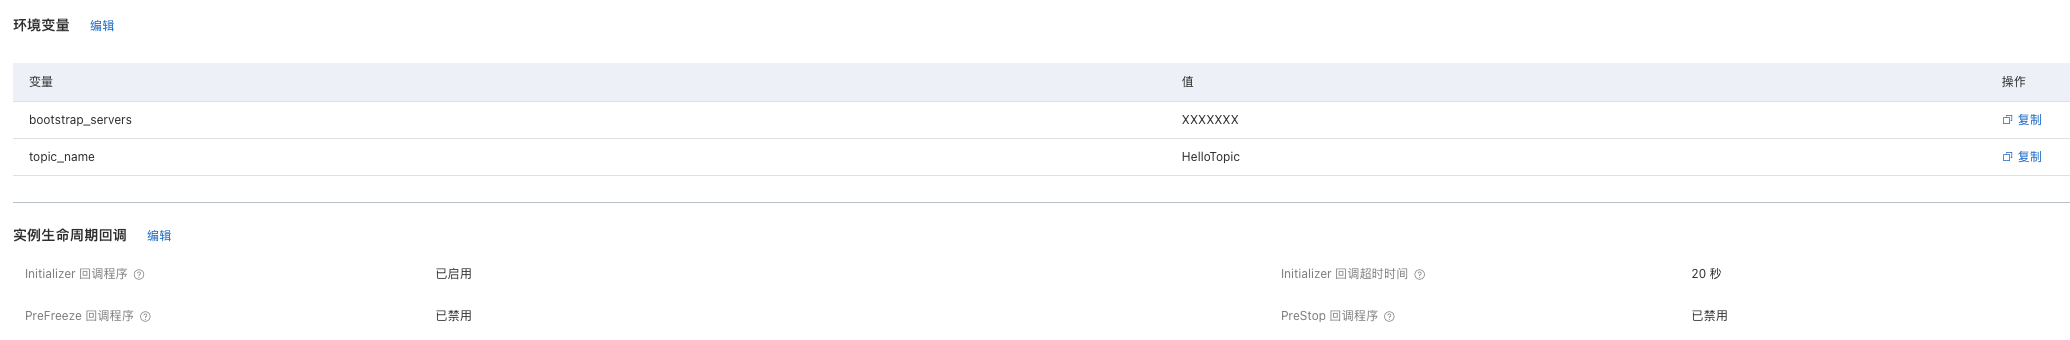
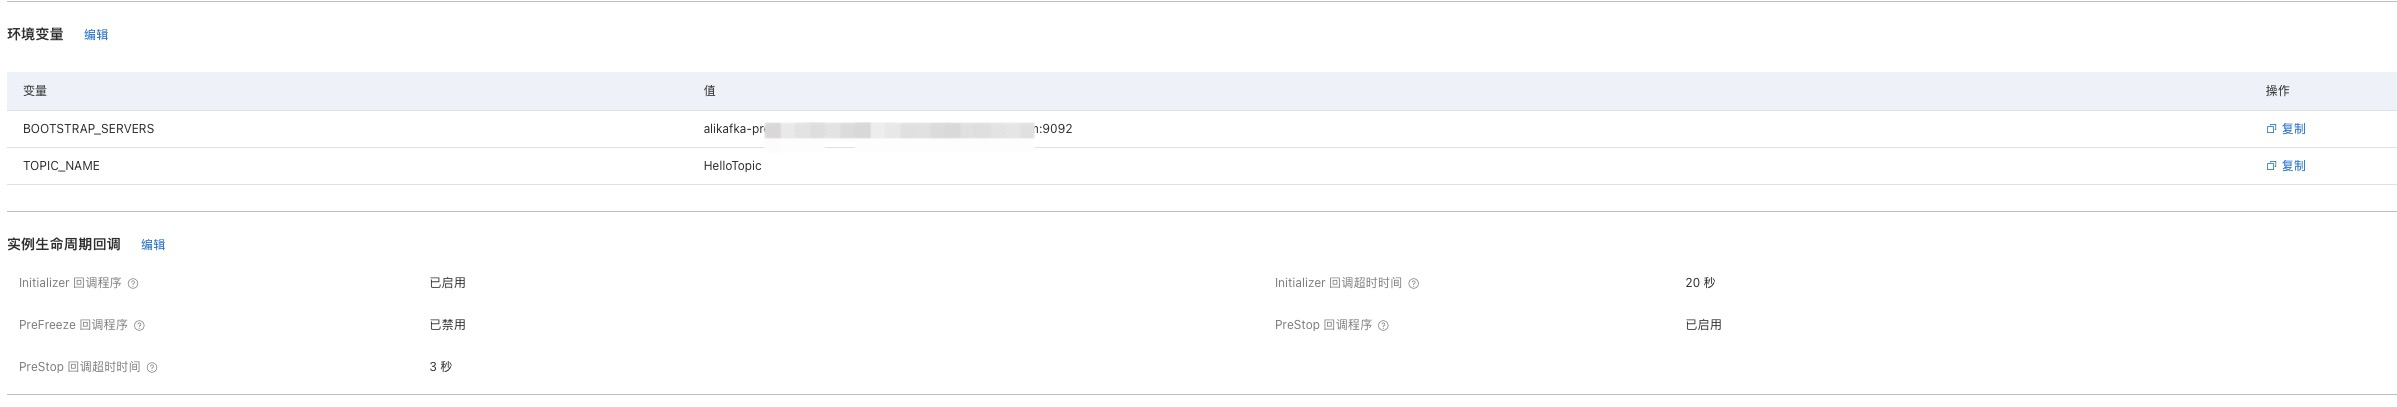
add preStop to close connection

diff --git a/quick-start-sample-codes/quick-start-sample-codes-nodejs/kafka-producer-nodejs/src/code/index.js b/quick-start-sample-codes/quick-start-sample-codes-nodejs/kafka-producer-nodejs/src/code/index.js
@@ -19,11 +19,6 @@ exports.initialize = (context, callback) => {
         'message.send.max.retries': 10
     });
 
-    producer.on("disconnected", function() {
-        // Auto reconnect
-        producer.connect();
-    })
-
     producer.on('event.log', function(event) {
         console.log("event.log", event);
         callback(new Error(event.message), "");
@@ -63,7 +58,6 @@ exports.handler = async(event, context, callback) => {
     );
     producer.flush();
 
-
     // waiting for sending
     await producer.on('delivery-report', function(err, report) {
         console.log("delivery-report err: ", err);
@@ -75,4 +69,13 @@ exports.handler = async(event, context, callback) => {
             callback(err, "Send message fail!");
         }  
     });
+}
+
+module.exports.preStop = function(context, callback) {
+    console.log('preStop hook start');
+    if (producer != null) {
+        producer.disconnect();
+    }
+    console.log('preStop hook finish');
+    callback(null, "");
 }

diff --git a/quick-start-sample-codes/quick-start-sample-codes-java/kafka-producer-java/src/src/main/java/example/App.java b/quick-start-sample-codes/quick-start-sample-codes-java/kafka-producer-java/src/src/main/java/example/App.java
@@ -24,7 +24,7 @@ public class App implements StreamRequestHandler, FunctionInitializer {
     KafkaProducer<String, String> producer;
 
     @Override
-     public void initialize(Context context) {
+    public void initialize(Context context) {
         // Get the environment variables
         BOOTSTRAP_SERVERS = System.getenv("BOOTSTRAP_SERVERS");
         TOPIC_NAME = System.getenv("TOPIC_NAME");
@@ -39,10 +39,10 @@ public class App implements StreamRequestHandler, FunctionInitializer {
         props.put(ProducerConfig.VALUE_SERIALIZER_CLASS_CONFIG, "org.apache.kafka.common.serialization.StringSerializer");
 
         producer = new KafkaProducer<>(props);
-     }
+    }
 
     @Override
-     public void handleRequest(InputStream inputStream, OutputStream outputStream, Context context) throws IOException {
+    public void handleRequest(InputStream inputStream, OutputStream outputStream, Context context) throws IOException {
         // Read the inputStream
         ByteArrayOutputStream result = new ByteArrayOutputStream();
         byte[] buffer = new byte[1024];
@@ -63,6 +63,5 @@ public class App implements StreamRequestHandler, FunctionInitializer {
         RecordMetadata recordMetadata = metadataFuture.get();
         context.getLogger().info("Produce ok: " + recordMetadata.toString() + "\n Payload: " + value);
         outputStream.write(("Produce ok: " + recordMetadata.toString() + "\n Payload: " + value).getBytes());
-     }
-        
+    }
 }

diff --git a/quick-start-sample-codes/quick-start-sample-codes-python/kafka-producer-python/src/code/index.py b/quick-start-sample-codes/quick-start-sample-codes-python/kafka-producer-python/src/code/index.py
@@ -14,7 +14,7 @@ def initialize(context):
 
     p = Producer({'bootstrap.servers': BOOTSTRAP_SERVERS})
 
-def delivery_report(err, msg):
+def deliveryReport(err, msg):
     """ Called once for each message produced to indicate delivery result.
         Triggered by poll() or flush(). """
     if err is not None:
@@ -23,10 +23,9 @@ def delivery_report(err, msg):
     else:
         logger.info('Message delivered to {} [{}]'.format(msg.topic(), msg.partition()))
 
-
 def handler(event, context):
     """ Produce messages to topic (asynchronously) """
-    p.produce(TOPIC_NAME, str(event).encode('utf-8'), callback=delivery_report)
+    p.produce(TOPIC_NAME, str(event).encode('utf-8'), callback=deliveryReport)
     p.poll(0)
 
     """ Flush the internel queue, wait for message deliveries before return """

diff --git a/quick-start-sample-codes/quick-start-sample-codes-golang/kafka-producer-golang/src/code/main.go b/quick-start-sample-codes/quick-start-sample-codes-golang/kafka-producer-golang/src/code/main.go
@@ -77,7 +77,21 @@ func HandleRequest(ctx context.Context, event StructEvent) (string, error) {
 	return fmt.Sprintf("Finish sending the message to kafka: %s!", event.Key), nil
 }
 
+func preStop(ctx context.Context) {
+	fctx, ok := fccontext.FromContext(ctx)
+	if !ok {
+		return
+	}
+	fctx.GetLogger().Infof("preStop hook start.")
+	if producer != nil {
+		producer.Close()
+	}
+
+	fctx.GetLogger().Infof("preStop hook finish.")
+}
+
 func main() {
 	fc.RegisterInitializerFunction(initialize)
+	fc.RegisterPreStopFunction(preStop)
 	fc.Start(HandleRequest)
 }

diff --git a/quick-start-sample-codes/quick-start-sample-codes-nodejs/kafka-producer-nodejs/README.md b/quick-start-sample-codes/quick-start-sample-codes-nodejs/kafka-producer-nodejs/README.md
@@ -94,21 +94,30 @@
 
 ```bash
 ========= FC invoke Logs begin =========
-FC Initialize Start RequestId: 3cfe9ee3-c05f-4975-bac6-f1992d215a87
-load code for handler:index.initialize
-2022-08-03T11:21:34.580Z 3cfe9ee3-c05f-4975-bac6-f1992d215a87 [verbose] Servers:  alikafka-pre-cn-7mz2sr1xa00c-1-vpc.alikafka.aliyuncs.com:9092,alikafka-pre-cn-7mz2sr1xa00c-2-vpc.alikafka.aliyuncs.com:9092,alikafka-pre-cn-7mz2sr1xa00c-3-vpc.alikafka.aliyuncs.com:9092
-2022-08-03T11:21:34.580Z 3cfe9ee3-c05f-4975-bac6-f1992d215a87 [verbose] TopicName:  HelloTopic
-FC Initialize End RequestId: 3cfe9ee3-c05f-4975-bac6-f1992d215a87
-FC Invoke Start RequestId: 3cfe9ee3-c05f-4975-bac6-f1992d215a87
-load code for handler:index.handler
-2022-08-03T11:21:34.613Z 3cfe9ee3-c05f-4975-bac6-f1992d215a87 [verbose] connect ok
-2022-08-03T11:21:39.608Z 3cfe9ee3-c05f-4975-bac6-f1992d215a87 [verbose] delivery-report: producer ok
-FC Invoke End RequestId: 3cfe9ee3-c05f-4975-bac6-f1992d215a87
+c-62f075a3-58d34b2b8b444083bb972022-08-08 10:34:13FC Initialize Start RequestId: c47410a0-ada0-45d8-863f-a9343feaa47e
+c-62f075a3-58d34b2b8b444083bb972022-08-08 10:34:13load code for handler:index.initialize
+c-62f075a3-58d34b2b8b444083bb972022-08-08 10:34:132022-08-08 10:34:13 c47410a0-ada0-45d8-863f-a9343feaa47e [verbose] Servers:  alikafka-pre-cn-7mz2sr1xa00c-1-vpc.alikafka.aliyuncs.com:9092
+c-62f075a3-58d34b2b8b444083bb972022-08-08 10:34:132022-08-08 10:34:13 c47410a0-ada0-45d8-863f-a9343feaa47e [verbose] TopicName:  HelloTopic
+c-62f075a3-58d34b2b8b444083bb972022-08-08 10:34:132022-08-08 10:34:13 c47410a0-ada0-45d8-863f-a9343feaa47e [verbose] connect ok
+c-62f075a3-58d34b2b8b444083bb972022-08-08 10:34:13FC Initialize End RequestId: c47410a0-ada0-45d8-863f-a9343feaa47e
+c-62f075a3-58d34b2b8b444083bb972022-08-08 10:34:13FC Invoke Start RequestId: c47410a0-ada0-45d8-863f-a9343feaa47e
+c-62f075a3-58d34b2b8b444083bb972022-08-08 10:34:13load code for handler:index.handler
+c-62f075a3-58d34b2b8b444083bb972022-08-08 10:34:432022-08-08 10:34:43 1c233449-024d-4a67-8e7f-83fe3bab6bac [verbose] delivery-report err:  null
+c-62f075a3-58d34b2b8b444083bb972022-08-08 10:34:432022-08-08 10:34:43 1c233449-024d-4a67-8e7f-83fe3bab6bac [verbose] delivery-report content:  {
+  topic: 'HelloTopic',
+  partition: 0,
+  offset: 16,
+  key: null,
+  timestamp: 1659926083428,
+  value: <Buffer 7b 22 4b 65 79 22 3a 20 22 74 65 73 74 20 6e 6f 64 65 6a 73 31 34 20 6b 61 66 6b 61 20 70 72 6f 64 75 63 65 72 22 7d>,
+  size: 39
+}
+c-62f075a3-58d34b2b8b444083bb972022-08-08 10:34:43FC Invoke End RequestId: 1c233449-024d-4a67-8e7f-83fe3bab6bac
 
 Duration: 10006.53 ms, Billed Duration: 10007 ms, Memory Size: 128 MB, Max Memory Used: 52.28 MB
 ========= FC invoke Logs end =========
 
-FC Invoke instanceId: c-62ea5a35-767cfad1f5614638a908
+FC Invoke instanceId: c-62f075a3-58d34b2b8b444083bb97
 
 FC Invoke Result:
 Finish sending the message:{"Key": "test nodejs14 kafka producer"}
@@ -135,16 +144,25 @@ End of method: invoke
   日志如下：
   
   ```bash
-  FC Initialize Start RequestId: afba2fbc-76b2-41ce-bda0-477374c43def
-  load code for handler:index.initialize
-  2022-08-03 19:21:44 afba2fbc-76b2-41ce-bda0-477374c43def [verbose] Servers:  alikafka-pre-cn-7mz2sr1xa00c-1-vpc.alikafka.aliyuncs.com:9092,alikafka-pre-cn-7mz2sr1xa00c-2-vpc.alikafka.aliyuncs.com:9092,alikafka-pre-cn-7mz2sr1xa00c-3-vpc.alikafka.aliyuncs.com:9092
-  2022-08-03 19:21:44 afba2fbc-76b2-41ce-bda0-477374c43def [verbose] TopicName:  HelloTopic
-  FC Initialize End RequestId: afba2fbc-76b2-41ce-bda0-477374c43def
-  FC Invoke Start RequestId: afba2fbc-76b2-41ce-bda0-477374c43def
-  load code for handler:index.handler
-  2022-08-03 19:21:44 afba2fbc-76b2-41ce-bda0-477374c43def [verbose] connect ok
-  2022-08-03 19:21:49 afba2fbc-76b2-41ce-bda0-477374c43def [verbose] delivery-report: producer ok
-  FC Invoke End RequestId: afba2fbc-76b2-41ce-bda0-477374c43def
+  c-62f075a3-58d34b2b8b444083bb972022-08-08 10:32:13FC Initialize Start RequestId: c47410a0-ada0-45d8-863f-a9343feaa47e
+  c-62f075a3-58d34b2b8b444083bb972022-08-08 10:32:13load code for handler:index.initialize
+  c-62f075a3-58d34b2b8b444083bb972022-08-08 10:32:132022-08-08 10:32:13 c47410a0-ada0-45d8-863f-a9343feaa47e [verbose] Servers:  alikafka-pre-cn-7mz2sr1xa00c-1-vpc.alikafka.aliyuncs.com:9092
+  c-62f075a3-58d34b2b8b444083bb972022-08-08 10:32:132022-08-08 10:32:13 c47410a0-ada0-45d8-863f-a9343feaa47e [verbose] TopicName:  HelloTopic
+  c-62f075a3-58d34b2b8b444083bb972022-08-08 10:32:132022-08-08 10:32:13 c47410a0-ada0-45d8-863f-a9343feaa47e [verbose] connect ok
+  c-62f075a3-58d34b2b8b444083bb972022-08-08 10:32:13FC Initialize End RequestId: c47410a0-ada0-45d8-863f-a9343feaa47e
+  c-62f075a3-58d34b2b8b444083bb972022-08-08 10:32:13FC Invoke Start RequestId: c47410a0-ada0-45d8-863f-a9343feaa47e
+  c-62f075a3-58d34b2b8b444083bb972022-08-08 10:32:13load code for handler:index.handler
+  c-62f075a3-58d34b2b8b444083bb972022-08-08 10:32:132022-08-08 10:32:13 c47410a0-ada0-45d8-863f-a9343feaa47e [verbose] delivery-report err:  null
+  c-62f075a3-58d34b2b8b444083bb972022-08-08 10:32:132022-08-08 10:32:13 c47410a0-ada0-45d8-863f-a9343feaa47e [verbose] delivery-report content:  {
+    topic: 'HelloTopic',
+    partition: 8,
+    offset: 19,
+    key: null,
+    timestamp: 1659925933345,
+    value: <Buffer 7b 0a 20 20 20 20 22 6b 65 79 31 22 3a 20 22 4e 6f 64 65 6a 73 31 34 22 2c 0a 20 20 20 20 22 6b 65 79 32 22 3a 20 22 76 61 6c 75 65 32 22 2c 0a 20 20 ... 20 more bytes>,
+    size: 70
+  }
+  c-62f075a3-58d34b2b8b444083bb972022-08-08 10:32:13FC Invoke End RequestId: c47410a0-ada0-45d8-863f-a9343feaa47e
   ```
   
   - 登陆Kafka控制台，查看对应实例的对应Topic`消息详情`，找到对应分区，即可查询到相应消息。

diff --git a/quick-start-sample-codes/quick-start-sample-codes-golang/kafka-producer-golang/src/README.md b/quick-start-sample-codes/quick-start-sample-codes-golang/kafka-producer-golang/src/README.md
@@ -84,7 +84,7 @@
 
 #### 4. 配置环境变量与实例生命周期回调
 
-在函数详情中的`函数配置`模块设置环境变量并在实例生命周期回调中开启Initializer 回调程序。
+在函数详情中的`函数配置`模块设置环境变量并在实例生命周期回调中开启Initializer与PreStop回调程序。
 
 其中环境变量：
 
@@ -111,10 +111,11 @@
  ```bash
 2022/07/31 04:27:48.315016 start
 FC Initialize Start RequestId: f1326a21-5f69-4090-8283-beb458b2d257
-2022-07-31 12:27:48 f1326a21-5f69-4090-8283-beb458b2d257 [INFO] main.go:34: Initializing the kafka config
+2022-07-31 12:27:48 f1326a21-5f69-4090-8283-beb458b2d257 [INFO] main.go:37: Initializing the kafka config
 FC Initialize End RequestId: f1326a21-5f69-4090-8283-beb458b2d257
 FC Invoke Start RequestId: 7e7931d4-3f62-452e-86a7-4f8190bbabb7
-2022-07-31 12:27:49 7e7931d4-3f62-452e-86a7-4f8190bbabb7 [INFO] main.go:54: sending the message to kafka: test go!
+2022-07-31 12:27:49 7e7931d4-3f62-452e-86a7-4f8190bbabb7 [INFO] main.go:57: sending the message to kafka: test go!
+2022-07-31 12:27:49 7e7931d4-3f62-452e-86a7-4f8190bbabb7 [INFO] main.go:72: Delivered message to topic HelloTopic [9] at offset 23
 FC Invoke End RequestId: 7e7931d4-3f62-452e-86a7-4f8190bbabb7
 
  ```
@@ -163,7 +164,8 @@ FC Initialize Start RequestId: 85422744-98de-42a5-b9d6-67f3344f832d
 2022-07-31T04:37:27.149Z 85422744-98de-42a5-b9d6-67f3344f832d [INFO] main.go:37: Initializing the kafka config
 FC Initialize End RequestId: 85422744-98de-42a5-b9d6-67f3344f832d
 FC Invoke Start RequestId: 85422744-98de-42a5-b9d6-67f3344f832d
-2022-07-31T04:37:28.239Z 85422744-98de-42a5-b9d6-67f3344f832d [INFO] main.go:54: sending the message to kafka: test go!
+2022-07-31T04:37:28.239Z 85422744-98de-42a5-b9d6-67f3344f832d [INFO] main.go:57: sending the message to kafka: test go serverless devs!
+2022-07-31T04:37:28.249Z 85422744-98de-42a5-b9d6-67f3344f832d [INFO] main.go:72: Delivered message to topic HelloTopic [9] at offset 24
 FC Invoke End RequestId: 85422744-98de-42a5-b9d6-67f3344f832d
 
 Duration: 1001.97 ms, Billed Duration: 1002 ms, Memory Size: 128 MB, Max Memory Used: 16.16 MB

diff --git a/quick-start-sample-codes/quick-start-sample-codes-golang/kafka-producer-golang/README.md b/quick-start-sample-codes/quick-start-sample-codes-golang/kafka-producer-golang/README.md
@@ -112,22 +112,7 @@
   - 即可查看到模拟事件触发函数后的结果。
 
 ```bash
-========= FC invoke Logs begin =========
-FC Invoke Start RequestId: ae8994c8-03fe-4d65-8726-3529e4150c80
-2022-08-03T08:39:51.098Z ae8994c8-03fe-4d65-8726-3529e4150c80 [INFO] main.go:73: sending the message to kafka: test go kafka producer!
-%3|1659515992.098|FAIL|rdkafka#producer-1| [thrd:123:9092/bootstrap]: 123:9092/bootstrap: Failed to connect to broker at 0.0.0.123:9092: Invalid argument (after 1ms in state CONNECT, 1 identical error(s) suppressed)
-FC Invoke End RequestId: ae8994c8-03fe-4d65-8726-3529e4150c80
 
-Duration: 2001.49 ms, Billed Duration: 2002 ms, Memory Size: 128 MB, Max Memory Used: 16.54 MB
-========= FC invoke Logs end =========
-
-FC Invoke instanceId: c-62ea33c8-fad19eba6bb641218616
-
-FC Invoke Result:
-"Finish sending the message to kafka: test go kafka producer!"
-
-
-End of method: invoke
 ```
 
 		
@@ -144,14 +129,7 @@ End of method: invoke
   日志如下：
   
   ```bash
-  2022/08/03 08:40:51.351737 start
-  FC Initialize Start RequestId: 21319b27-95ac-47ba-a62b-00324fb76aa0
-  2022-08-03 16:40:51 21319b27-95ac-47ba-a62b-00324fb76aa0 [INFO] main.go:35: Initializing the kafka config
-  FC Initialize End RequestId: 21319b27-95ac-47ba-a62b-00324fb76aa0
-  FC Invoke Start RequestId: 89973d15-8831-4326-9f93-4f84fa5b074c
-  2022-08-03 16:40:53 89973d15-8831-4326-9f93-4f84fa5b074c [INFO] main.go:73: sending the message to kafka: test kafka producer go!
-  2022/08/03 08:40:53.874318 Send OK topic:HelloTopic partition:6 offset:16 content:test kafka producer go
-  FC Invoke End RequestId: 89973d15-8831-4326-9f93-4f84fa5b074c
+
   ```
   
   - 登陆Kafka控制台，查看对应实例的对应Topic`消息详情`，找到对应分区，即可查询到相应消息。

diff --git a/quick-start-sample-codes/quick-start-sample-codes-nodejs/kafka-producer-nodejs/src/README.md b/quick-start-sample-codes/quick-start-sample-codes-nodejs/kafka-producer-nodejs/src/README.md
@@ -68,7 +68,8 @@ zip code.zip -r ./*
 - BOOTSTRAP_SERVERS设置为Kafka实例详情内`接入点信息`对应的`默认接入点`地址。
 - TOPIC_NAME设置为相应发送消息到的Topic（需要在Kafka消息队列版中提前创建）
 
-Initializer设置为index.initialize；
+Initializer设置为index.initialize;
+PreStop回调程序设置为index.preStop;
 
 层编辑添加之前构建好的依赖层。
 

diff --git a/quick-start-sample-codes/quick-start-sample-codes-python/kafka-producer-python/src/README.md b/quick-start-sample-codes/quick-start-sample-codes-python/kafka-producer-python/src/README.md
@@ -71,7 +71,7 @@ zip code.zip -r ./*
 - BOOTSTRAP_SERVERS设置为Kafka实例详情内`接入点信息`对应的`默认接入点`地址。
 - TOPIC_NAME设置为相应发送消息到的Topic（需要在Kafka消息队列版中提前创建）
 
-Initializer设置为index.initialize；
+Initializer设置为index.initialize;
 
 层编辑添加之前构建好的依赖层。
 
